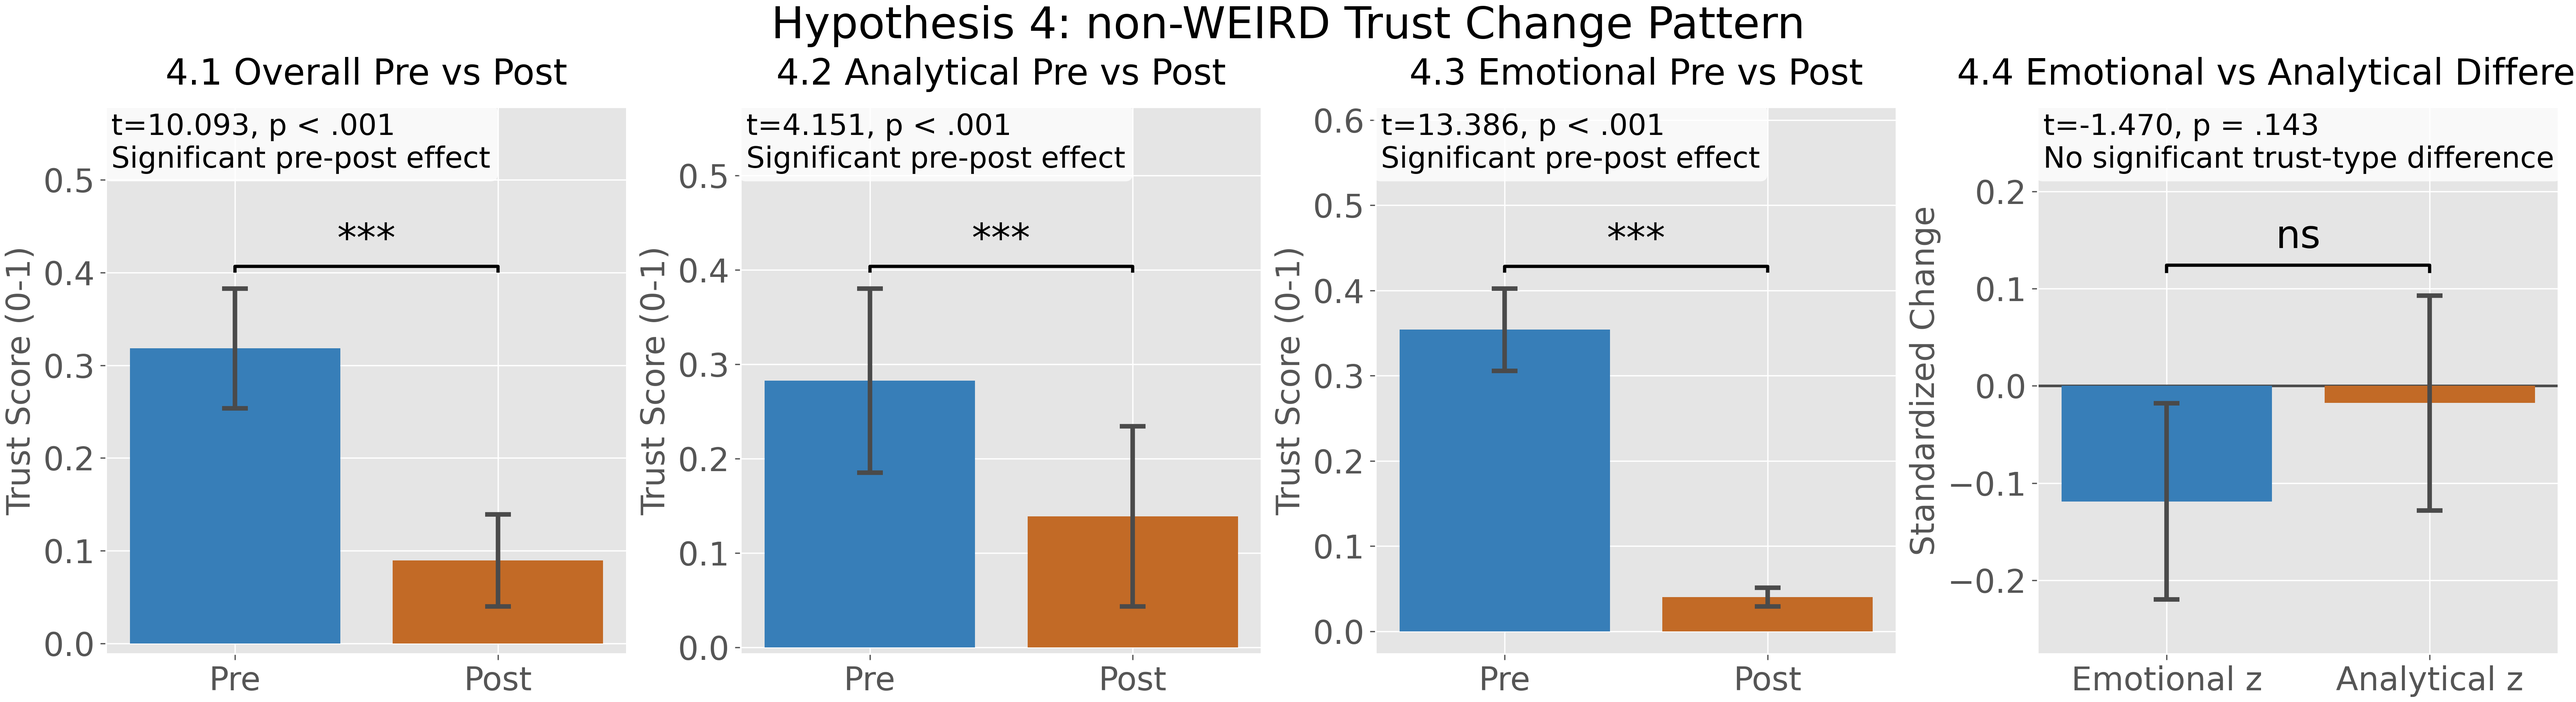
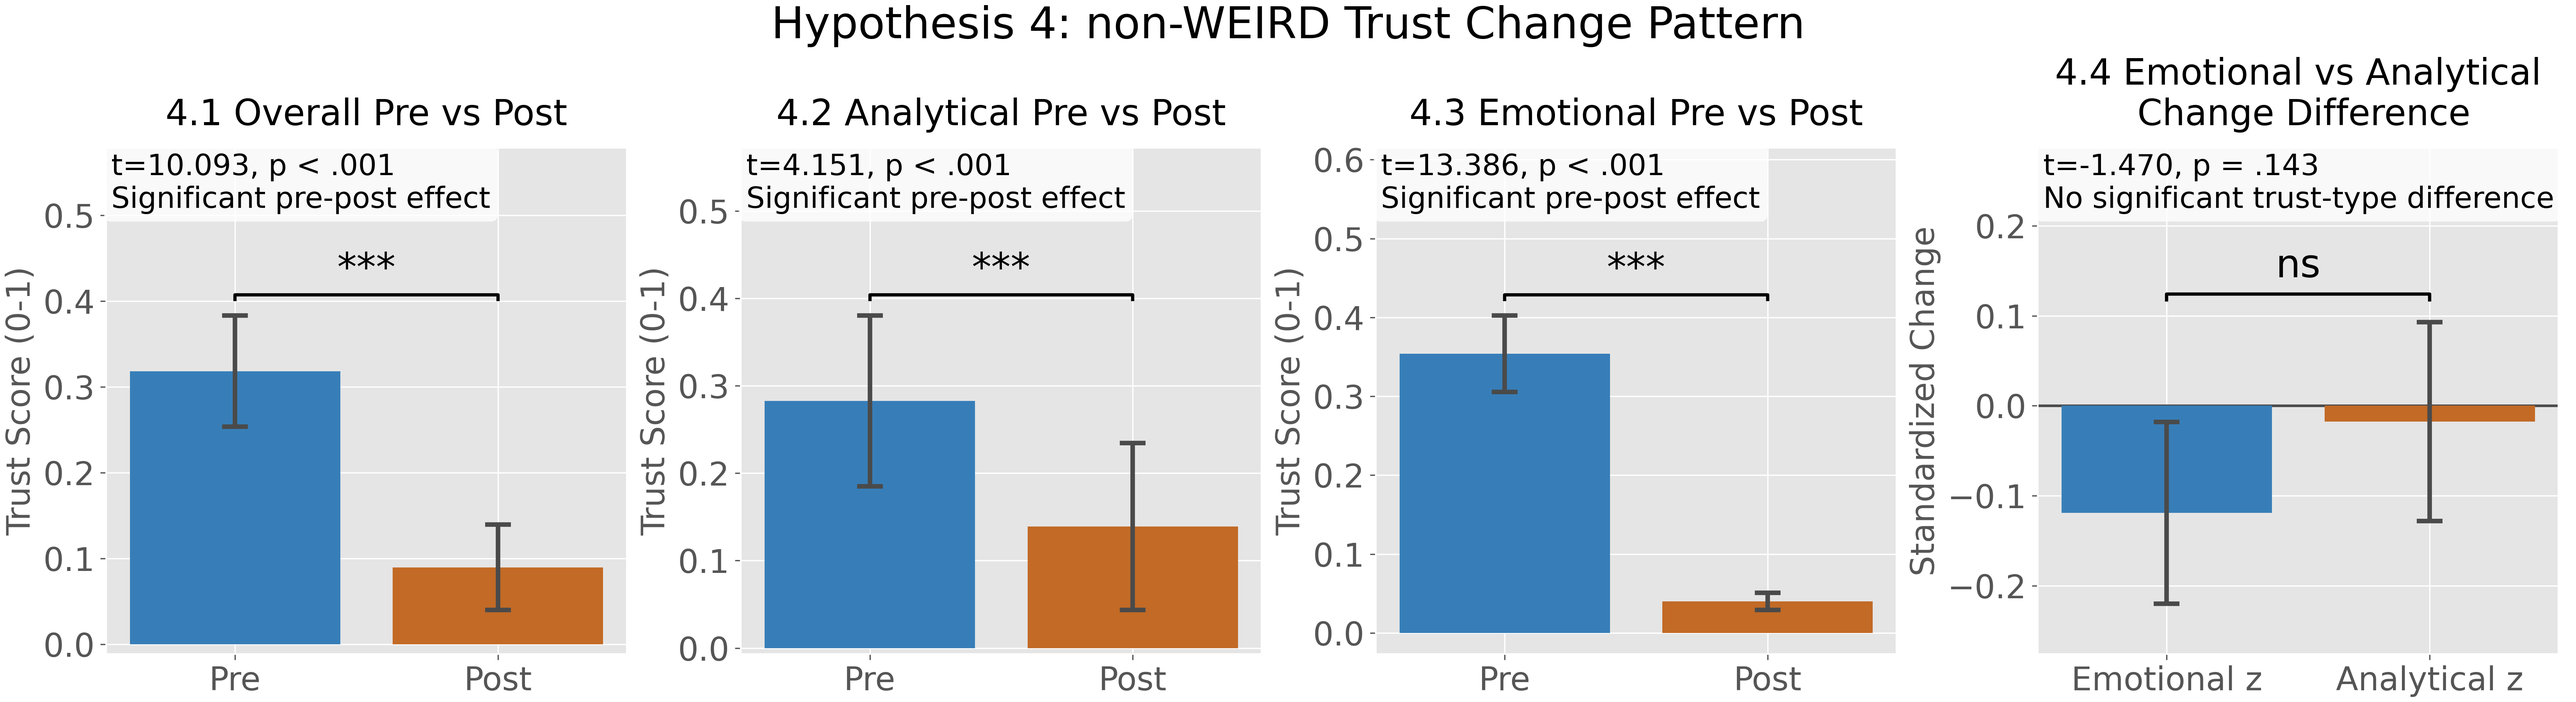
adding final version

diff --git a/Results/qualitative/qualitative.py b/Results/qualitative/qualitative.py
@@ -42,6 +42,11 @@ OUTCOME_LABELS = {
     "emotional_change": "Emotional",
 }
 
+SUBPLOT_TITLE_FONTSIZE = 22
+AXIS_LABEL_FONTSIZE = 20
+TICK_LABEL_FONTSIZE = 20
+STAT_BOX_FONTSIZE = 16
+
 
 def profile_mean(df: pd.DataFrame, group_col: str, group_value: str) -> np.ndarray:
     return np.array(
@@ -157,14 +162,35 @@ def plot_two_group_panel(
 
     ax.axhline(0.0, color="#333333", linewidth=1.1)
     ax.set_xticks(x)
-    ax.set_xticklabels([OUTCOME_LABELS[o] for o in OUTCOMES], fontsize=11)
-    ax.set_title(title, fontsize=14)
+    ax.set_xticklabels([OUTCOME_LABELS[o] for o in OUTCOMES], fontsize=TICK_LABEL_FONTSIZE)
+    ax.set_title(title, fontsize=SUBPLOT_TITLE_FONTSIZE)
+    ax.set_ylabel("Normalized trust change (z-score)", fontsize=AXIS_LABEL_FONTSIZE)
+    ax.tick_params(axis="y", labelsize=TICK_LABEL_FONTSIZE)
+
+    summary_lines = []
+    for outcome, label in zip(OUTCOMES, ["Overall", "Analytical", "Emotional"]):
+        left_vals = df.loc[df[group_col] == left_label, outcome]
+        right_vals = df.loc[df[group_col] == right_label, outcome]
+        p_value = welch_group_test(left_vals, right_vals)
+        summary_lines.append(f"{label}: p {ic_mod.format_p_text(p_value)} ({ic_mod.significance_stars(p_value)})")
+
+    ax.text(
+        0.02,
+        0.98,
+        "\n".join(summary_lines),
+        transform=ax.transAxes,
+        ha="left",
+        va="top",
+        fontsize=STAT_BOX_FONTSIZE,
+        bbox={"facecolor": "white", "alpha": 0.88, "edgecolor": "none", "boxstyle": "round,pad=0.3"},
+        zorder=6,
+    )
 
     if show_legend:
         if legend_groups_only:
-            ax.legend([left_bar, right_bar], [left_label.capitalize(), right_label.capitalize()], loc="lower left", fontsize=9)
+            ax.legend([left_bar, right_bar], [left_label.capitalize(), right_label.capitalize()], loc="lower left", fontsize=10)
         else:
-            ax.legend(loc="lower left", fontsize=9)
+            ax.legend(loc="lower left", fontsize=10)
 
 
 def plot_similarity_panel(
@@ -203,12 +229,13 @@ def plot_similarity_panel(
     )
 
     ax.set_xticks(x)
-    ax.set_xticklabels(["WEIRD", "non-WEIRD"], fontsize=11)
+    ax.set_xticklabels(["WEIRD", "non-WEIRD"], fontsize=TICK_LABEL_FONTSIZE)
     ax.set_ylim(-1.0, 1.0)
     ax.axhline(0.0, color="#333333", linewidth=1.0)
-    ax.set_title(title, fontsize=14)
-    ax.set_ylabel("Cosine similarity", fontsize=11)
-    ax.legend(loc="lower left", fontsize=9)
+    ax.set_title(title, fontsize=SUBPLOT_TITLE_FONTSIZE)
+    ax.set_ylabel("Cosine similarity", fontsize=AXIS_LABEL_FONTSIZE)
+    ax.tick_params(axis="y", labelsize=TICK_LABEL_FONTSIZE)
+    ax.legend(loc="lower left", fontsize=10)
 
     ax.text(
         0.02,
@@ -220,8 +247,8 @@ def plot_similarity_panel(
         transform=ax.transAxes,
         ha="left",
         va="top",
-        fontsize=9,
-        bbox={"facecolor": "white", "alpha": 0.75, "edgecolor": "none"},
+        fontsize=STAT_BOX_FONTSIZE,
+        bbox={"facecolor": "white", "alpha": 0.88, "edgecolor": "none", "boxstyle": "round,pad=0.3"},
     )
 
 
@@ -361,11 +388,12 @@ def plot_profile_summary_panel(
 
     ax.axhline(0.0, color="#333333", linewidth=1.0)
     ax.set_xticks(x)
-    ax.set_xticklabels([label for _, label in categories], fontsize=11)
+    ax.set_xticklabels([label for _, label in categories], fontsize=TICK_LABEL_FONTSIZE)
     ax.set_ylim(-1.05, 1.05)
-    ax.set_ylabel("Profile contrast", fontsize=11)
-    ax.set_title("Profile Contrast Summary", fontsize=14)
-    ax.legend(loc="lower left", fontsize=9)
+    ax.set_ylabel("Profile contrast", fontsize=AXIS_LABEL_FONTSIZE)
+    ax.set_title("Profile Contrast Summary", fontsize=SUBPLOT_TITLE_FONTSIZE)
+    ax.tick_params(axis="y", labelsize=TICK_LABEL_FONTSIZE)
+    ax.legend(loc="lower left", fontsize=10)
 
     for idx, (column, _) in enumerate(categories):
         weird_vals = contrast_df.loc[contrast_df["Group"] == "WEIRD", column]
@@ -380,7 +408,7 @@ def plot_profile_summary_panel(
 
 def make_qualitative_plot(df: pd.DataFrame, output_path: Path) -> None:
     plt.style.use("ggplot")
-    fig, axes = plt.subplots(1, 3, figsize=(20, 6.8), constrained_layout=True)
+    fig, axes = plt.subplots(1, 3, figsize=(22, 7.2), constrained_layout=True)
 
     weird_line, non_weird_line = compute_group_lines(df)
     weird_profile = profile_mean(df, "Group", "WEIRD")
@@ -432,9 +460,9 @@ def make_qualitative_plot(df: pd.DataFrame, output_path: Path) -> None:
         collectivist_profile=collectivist_profile,
     )
 
-    axes[0].set_ylabel("Normalized trust change (z-score)", fontsize=13)
-    axes[1].set_ylabel("Normalized trust change (z-score)", fontsize=13)
-    fig.suptitle("Qualitative Trust-Change and Profile Summary", fontsize=18)
+    axes[0].set_ylabel("Normalized trust change (z-score)", fontsize=AXIS_LABEL_FONTSIZE)
+    axes[1].set_ylabel("Normalized trust change (z-score)", fontsize=AXIS_LABEL_FONTSIZE)
+    fig.suptitle("Qualitative Trust-Change and Profile Summary", fontsize=26)
 
     fig.savefig(output_path, dpi=250)
     plt.close(fig)

diff --git a/Results/qualitative/qualitative1.py b/Results/qualitative/qualitative1.py
@@ -39,6 +39,11 @@ except ModuleNotFoundError:
 
 ic_mod = import_module("Results.qualitative.1c3")
 
+SUBPLOT_TITLE_FONTSIZE = 22
+AXIS_LABEL_FONTSIZE = 20
+TICK_LABEL_FONTSIZE = 20
+STAT_BOX_FONTSIZE = 16
+
 
 def add_ic_orientation(df: pd.DataFrame) -> pd.DataFrame:
     work = df.copy()
@@ -114,9 +119,10 @@ def _box_with_points(
 
     ax.axhline(0.0, color="#333333", linewidth=1.0)
     ax.set_xticks(positions)
-    ax.set_xticklabels(labels, fontsize=10)
-    ax.set_title(title, fontsize=13)
-    ax.set_ylabel(ylabel, fontsize=11)
+    ax.set_xticklabels(labels, fontsize=TICK_LABEL_FONTSIZE)
+    ax.set_title(title, fontsize=SUBPLOT_TITLE_FONTSIZE)
+    ax.set_ylabel(ylabel, fontsize=AXIS_LABEL_FONTSIZE)
+    ax.tick_params(axis="y", labelsize=TICK_LABEL_FONTSIZE)
 
 
 def _regression_panel(
@@ -188,10 +194,11 @@ def _regression_panel(
         ax.plot(x_line_n, y_line_n, color="#8f4f1d", linewidth=1.8, linestyle="--", label="non-WEIRD fit")
 
     ax.axhline(0.0, color="#333333", linewidth=1.0)
-    ax.set_title(title, fontsize=13)
-    ax.set_xlabel(x_label, fontsize=11)
-    ax.set_ylabel("Analytical - Emotional change (z)", fontsize=11)
-    ax.legend(loc="lower left", fontsize=9)
+    ax.set_title(title, fontsize=SUBPLOT_TITLE_FONTSIZE)
+    ax.set_xlabel(x_label, fontsize=AXIS_LABEL_FONTSIZE)
+    ax.set_ylabel("Analytical - Emotional change (z)", fontsize=AXIS_LABEL_FONTSIZE)
+    ax.tick_params(axis="both", labelsize=TICK_LABEL_FONTSIZE)
+    ax.legend(loc="lower left", fontsize=10)
 
     weird_slope_txt = f"{weird_lr.slope:.3f}" if weird_lr is not None else "NA"
     weird_p_txt = format_p_text(float(weird_lr.pvalue)) if weird_lr is not None else "NA"
@@ -213,8 +220,8 @@ def _regression_panel(
         transform=ax.transAxes,
         ha="left",
         va="top",
-        fontsize=9,
-        bbox={"facecolor": "white", "alpha": 0.78, "edgecolor": "none"},
+        fontsize=STAT_BOX_FONTSIZE,
+        bbox={"facecolor": "white", "alpha": 0.88, "edgecolor": "none", "boxstyle": "round,pad=0.3"},
     )
 
     return {
@@ -230,7 +237,7 @@ def _regression_panel(
 
 def make_qualitative1_plot(df: pd.DataFrame, output_path: Path) -> dict[str, dict[str, float]]:
     plt.style.use("ggplot")
-    fig, axes = plt.subplots(1, 4, figsize=(25, 6.8), constrained_layout=True)
+    fig, axes = plt.subplots(1, 4, figsize=(26, 7.4), constrained_layout=True)
 
     # Panel 1: sentiment score distributions by WEIRD vs non-WEIRD.
     sent = df[df["sentiment_mean"].notna()].copy()
@@ -261,8 +268,8 @@ def make_qualitative1_plot(df: pd.DataFrame, output_path: Path) -> dict[str, dic
         transform=axes[0].transAxes,
         ha="left",
         va="top",
-        fontsize=9,
-        bbox={"facecolor": "white", "alpha": 0.78, "edgecolor": "none"},
+        fontsize=STAT_BOX_FONTSIZE,
+        bbox={"facecolor": "white", "alpha": 0.88, "edgecolor": "none", "boxstyle": "round,pad=0.3"},
     )
 
     # Panel 2: IC score distributions by WEIRD vs non-WEIRD.
@@ -294,8 +301,8 @@ def make_qualitative1_plot(df: pd.DataFrame, output_path: Path) -> dict[str, dic
         transform=axes[1].transAxes,
         ha="left",
         va="top",
-        fontsize=9,
-        bbox={"facecolor": "white", "alpha": 0.78, "edgecolor": "none"},
+        fontsize=STAT_BOX_FONTSIZE,
+        bbox={"facecolor": "white", "alpha": 0.88, "edgecolor": "none", "boxstyle": "round,pad=0.3"},
     )
 
     # Panels 3 and 4: regressions predicting analytical-emotional change.
@@ -304,17 +311,17 @@ def make_qualitative1_plot(df: pd.DataFrame, output_path: Path) -> dict[str, dic
         df,
         x_col="sentiment_mean",
         x_label="Mean sentiment score",
-        title="Regression: A-E Change ~ Sentiment",
+        title="Regression: A-E\nChange ~ Sentiment",
     )
     reg_ic = _regression_panel(
         axes[3],
         df,
         x_col="ic_mean",
         x_label="Collectivity score (IC)",
-        title="Regression: A-E Change ~ Collectivity",
+        title="Regression: A-E\nChange ~ Collectivity",
     )
 
-    fig.suptitle("Qualitative1: Distribution Tests and Regression Models", fontsize=18)
+    fig.suptitle("Qualitative: Distribution Tests and Regression Models", fontsize=26)
     fig.savefig(output_path, dpi=250)
     plt.close(fig)
 

diff --git a/Results/qualitative/qualitative.tex b/Results/qualitative/qualitative.tex
@@ -14,6 +14,6 @@ This approach goes beyond conventional sentiment analysis by asking not just whe
 \subsubsection{Results}
 Figure~\ref{fig:qualitative} summarizes three related analyses. The left panel compares negative and positive sentiment groups on normalized trust change while overlaying the mean trust-change profiles for WEIRD and non-WEIRD participants. The strongest separation appears for emotional trust: participants with negative-sentiment comments showed higher emotional trust change than participants with positive-sentiment comments ($p=.003$), while the analytical and overall contrasts were not statistically significant ($p=.304$ and $p=.356$, respectively). Visually, the WEIRD profile is closer to the negative-sentiment pattern, whereas the non-WEIRD profile is closer to the positive-sentiment pattern.
 
-The middle panel compares participants whose comments fell into the individualistic versus collectivist IC extremes. Here the clearest differences appear in overall and emotional trust change. Collectivist-oriented comments were associated with more positive normalized overall trust change than individualistic comments ($p=.007$), and also with more positive emotional trust change ($p<.001$). The analytical trust contrast was small and non-significant ($p=.360$). As in the sentiment comparison, the WEIRD mean profile visually tracks the individualistic side more closely, while the non-WEIRD mean profile tracks the collectivist side.
+The middle panel compares participants whose comments fell into the individualistic versus collectivist IC extremes. Here the clearest differences appear in overall and emotional trust change. Collectivist-oriented comments were associated with more positive normalized overall trust change than individualistic comments ($p=.007$), and also with more positive emotional trust change ($p<.001$). The analytical trust contrast was small and non-significant ($p=.360$). As in the sentiment comparison, the WEIRD mean profile visually tracks the collectivist side more closely, while the non-WEIRD mean profile tracks the individualistic side.
 
-The right panel compresses these qualitative patterns into profile-contrast summaries for sentiment, IC orientation, and their combined interaction. Positive values indicate relatively greater similarity to positive-sentiment and individualistic profiles, whereas negative values indicate greater similarity to negative-sentiment and collectivist profiles. Across all three summaries, WEIRD and non-WEIRD participants differ significantly: sentiment contrast ($p<.001$), IC contrast ($p<.001$), and the combined interaction contrast ($p<.001$). The direction of these effects indicates that WEIRD participants align more strongly with the negative/individualistic side of the qualitative profile space, while non-WEIRD participants align more strongly with the positive/collectivist side. Taken together, these results suggest that the qualitative content of participant comments is not merely affective noise, but reflects structured differences in both emotional valence and social orientation that parallel the quantitative trust-change patterns.
+The right panel compresses these qualitative patterns into profile-contrast summaries for sentiment, IC orientation, and their combined interaction. Positive values indicate relatively greater similarity to positive-sentiment and individualistic profiles, whereas negative values indicate greater similarity to negative-sentiment and collectivist profiles. Across all three summaries, WEIRD and non-WEIRD participants differ significantly: sentiment contrast ($p<.001$), IC contrast ($p<.001$), and the combined interaction contrast ($p<.001$). The direction of these effects indicates that WEIRD participants align more strongly with the negative/collectivist side of the qualitative profile space, while non-WEIRD participants align more strongly with the positive/individualistic side. Taken together, these results suggest that the qualitative content of participant comments is not merely affective noise, but reflects structured differences in both emotional valence and social orientation that parallel the quantitative trust-change patterns.

diff --git a/Methodology/Measures/measures.tex b/Methodology/Measures/measures.tex
@@ -4,3 +4,7 @@ For analytical scoring, positively worded prompts are mapped from $-2$ (strongly
 The metrics of \texttt{Total Emotional Trust Pre Experiment} and \texttt{Total Emotional Trust Post Experiment} are computed as row-wise sums of nine bipolar emotional prompts at pre and post: empathetic/apathetic, sensitive/insensitive, personal/impersonal, caring/ignoring, altruistic/self-serving, cordial/rude, responsive/indifferent, open-minded/judgmental, and patient/impatient. Each emotional item is coded in the data shared on Github and OSF with the trust-aligned adjective scored as $+1$ and the opposite adjective scored as $-1$. 
 
 In all analysis the same scoring is used and scores are scaled as $A_{pre}=\frac{\text{Total Analytical Trust Pre Experiment}}{10}$, $A_{post}=\frac{\text{Total Analytical Trust Post Experiment}}{10}$, $E_{pre}=\frac{\text{Total Emotional Trust Pre Experiment}}{9}$, and $E_{post}=\frac{\text{Total Emotional Trust Post Experiment}}{9}$. Pre--post trust change is then defined as $\Delta A = A_{post}-A_{pre}$ and $\Delta E = E_{post}-E_{pre}$, where positive values indicate increased trust and negative values indicate decreased trust after the intervention. We also report overall trust as the simple mean of normalized analytical and emotional trust, with $O_{pre}=\frac{A_{pre}+E_{pre}}{2}$ and $O_{post}=\frac{A_{post}+E_{post}}{2}$. The pre--post overall trust change is then defined as $\Delta O = O_{post}-O_{pre}$.
+
+\subsubsection{LLM Stimulus and Visualization Pipeline}
+The experimental demonstrations were built around a masked language model based on BERT, specifically a version trained on Wikipedia and books that is described more fully in the codebase platform materials. Participant-facing examples use a WordPiece-style tokenizer with a vocabulary of roughly 30{,}000 subword units; input strings are lower-cased, segmented into subword tokens, and wrapped with the standard special markers $[CLS]$ and $[SEP]$ before inference. For the interactive fill-in-the-blank tasks, the tokenized sequence is passed to the completion pipeline, which returns the highest-probability candidate continuations and associated probabilities for the masked position; these predictions are then displayed as ranked token completions. The visual interface itself is rendered client-side with JavaScript and D3, combining HTML controls and SVG plots to show token-level completions, comparative sentence outputs, and temporal association graphics such as the gender-over-time panels. In this way, the study materials expose not only the model's textual predictions but also the relative structure of its learned associations across alternative prompts and demographic cues. All code for generating tokens and predictions of missing words in sentences is fully detailed on the online code repository. 
+

diff --git a/Results/qualitative/qualitative1.tex b/Results/qualitative/qualitative1.tex
@@ -1,4 +1,4 @@
-\subsection{Qualitative1: Distribution and Regression Analysis}
+\subsection{Qualitative: Distribution and Regression Analysis}
 
 As a baseline for the subsequent, more complex qualitative profiling, we first performed a focused set of distribution and regression tests centered on two questions: (1) whether measured text-derived sentiment and individualism--collectivism (IC) orientation differ between WEIRD and non-WEIRD populations when all participants are included, and (2) whether analytical-minus-emotional trust change can be predicted from sentiment and collectivity scores with group-specific trends.
 
@@ -15,6 +15,6 @@ Taken together, these baseline results show that simple group-level distribution
 \begin{figure}[htbp]
 \centering
 \includegraphics[width=0.99\linewidth]{Figures/qualitative1.png}
-\caption{Qualitative1 analysis: (left) sentiment score distributions by polarity and demographic group, (middle-left) IC score distributions by orientation and demographic group, (middle-right) regression of analytical-minus-emotional trust change on sentiment score, and (right) regression of analytical-minus-emotional trust change on collectivity score. Boxplots include whiskers and participant-level dots; regression panels include fitted lines and significance summaries.}
+\caption{Qualitative analysis: (left) participant sentiment score distributions by demographic group (WEIRD vs non-WEIRD), with a reference negative-vs-positive split summary; (middle-left) participant IC score distributions by demographic group, with a reference individualistic-vs-collectivist split summary; (middle-right) regression of analytical-minus-emotional trust change on sentiment score; and (right) regression of analytical-minus-emotional trust change on collectivity score. Distribution panels include boxplots with participant-level points, and regression panels include fitted group-specific lines with binned means and standard-deviation error bars.}
 \label{fig:qualitative1}
 \end{figure}

diff --git a/Results/hypothesis4/hypothesis4.py b/Results/hypothesis4/hypothesis4.py
@@ -472,7 +472,7 @@ def main() -> None:
     draw_pre_post_subplot(axes[0], "4.1 Overall Pre vs Post", overall_stats)
     draw_pre_post_subplot(axes[1], "4.2 Analytical Pre vs Post", analytical_stats)
     draw_pre_post_subplot(axes[2], "4.3 Emotional Pre vs Post", emotional_stats)
-    draw_type_subplot(axes[3], "4.4 Emotional vs Analytical Difference", type_stats)
+    draw_type_subplot(axes[3], "4.4 Emotional vs Analytical\n Change Difference", type_stats)
 
     fig.suptitle("Hypothesis 4: non-WEIRD Trust Change Pattern", fontsize=27)
     fig.savefig(PNG_PATH, dpi=300)

diff --git a/SiteCode/README.md b/SiteCode/README.md
@@ -54,6 +54,10 @@ Use these pages in the browser:
 - Interactive experiment entry: `http://localhost:5173/baseExplain`
 - Interactive experiment study page: `http://localhost:5173/baseExplain/study`
 
+## Model and visualization pipeline
+
+The experiment pages are built around a BERT-style masked language model trained on Wikipedia and books. The explanatory content and interactive examples use a fill-in-the-blank workflow: a sentence is converted into subword tokens with a WordPiece-style tokenizer, lower-cased, and wrapped with the standard BERT boundary markers `[` `CLS` `]` and `[` `SEP` `]` before being sent through the completion pipeline. For masked-token probes, the site requests the top candidate token predictions and associated probabilities, then renders those ranked completions back into the UI. The visualizations are drawn client-side with JavaScript and D3, combining HTML controls with SVG charts to show token completions, paired sentence comparisons, difference plots, and the gender-over-time views. In practice, the Vue pages load the explanatory markdown, then sequentially load the legacy experiment scripts in `source/`, `source-static/`, and `third_party/`, which transform the model outputs into the interactive graphics shown to participants.
+
 ## Optional API configuration
 
 The Vue pages submit responses to `/api/...` by default.
